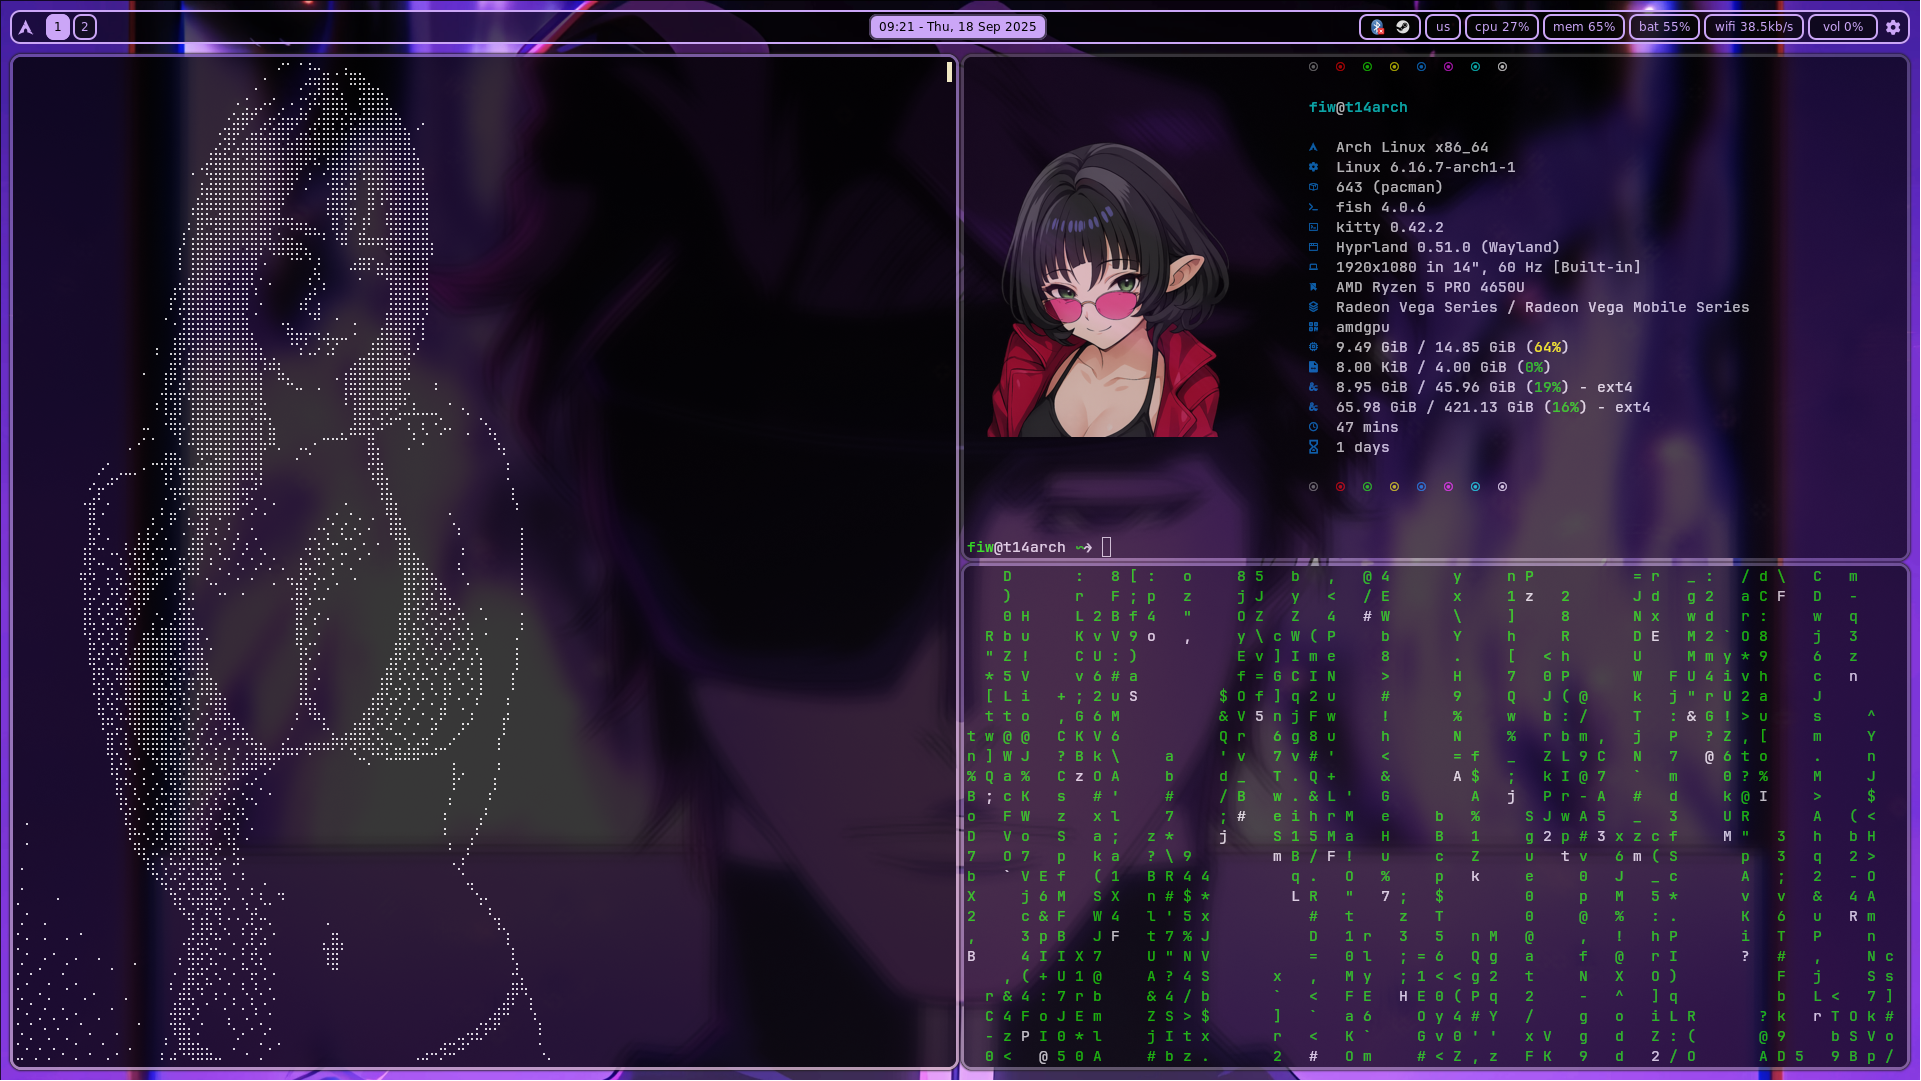
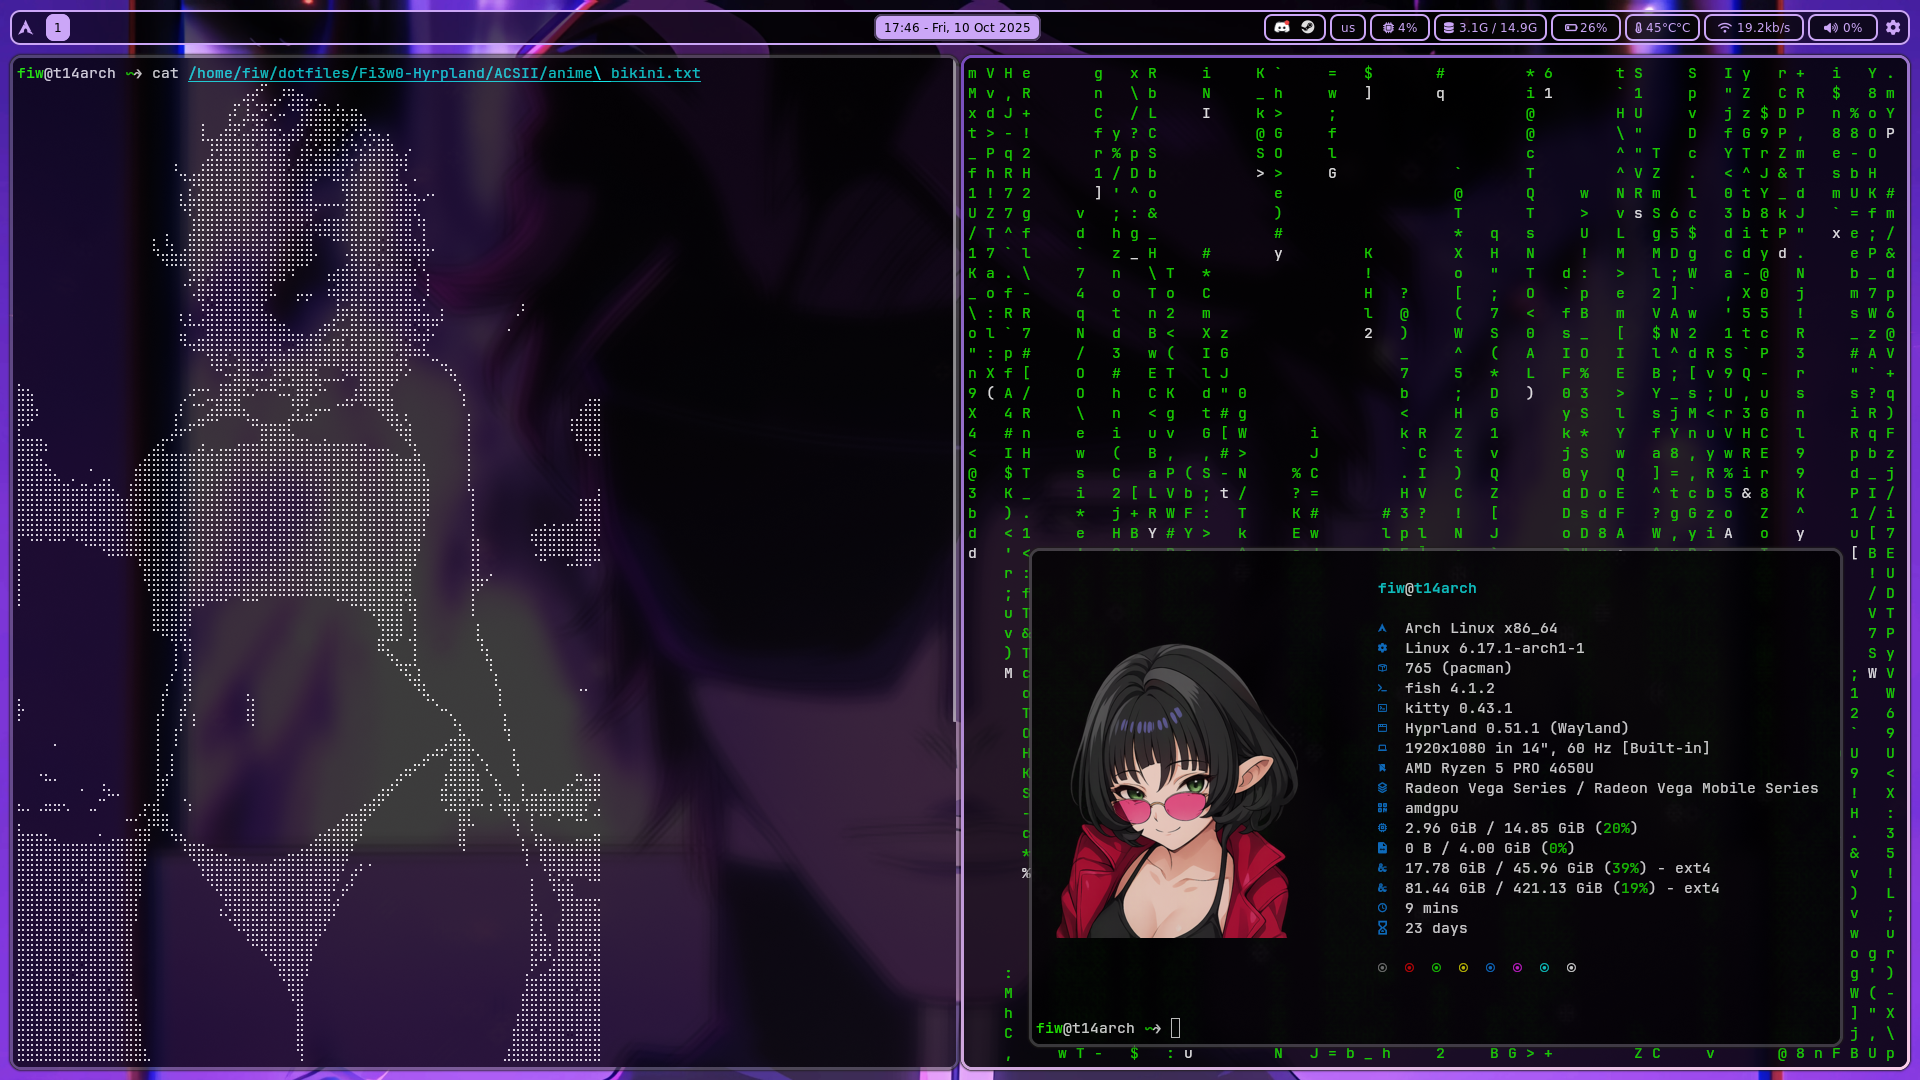
new waybar with temps, hypr updates, wallpaper reorder, scripts deleted, bugs fix

diff --git a/waybar/style.css b/waybar/style.css
@@ -135,3 +135,15 @@ tooltip label {
 #language {
     min-width: 16px;
 }
+
+#custom-cpu_temp {
+border: 2px solid #cba6f7;
+padding: 3px 8px;
+min-width: 50px;
+border-radius: 8px;
+background-color: rgba(6, 6, 6, 0.6);
+font-size: 12px;
+color: #cba6f7;
+margin: 4px 4px 4px 0px;
+}
+
